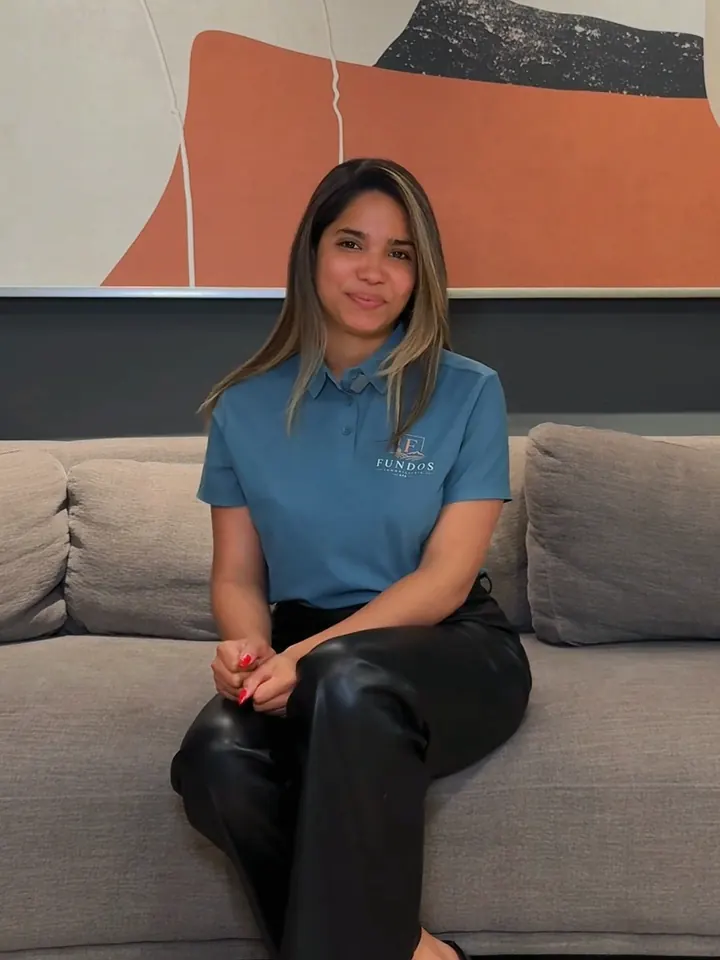
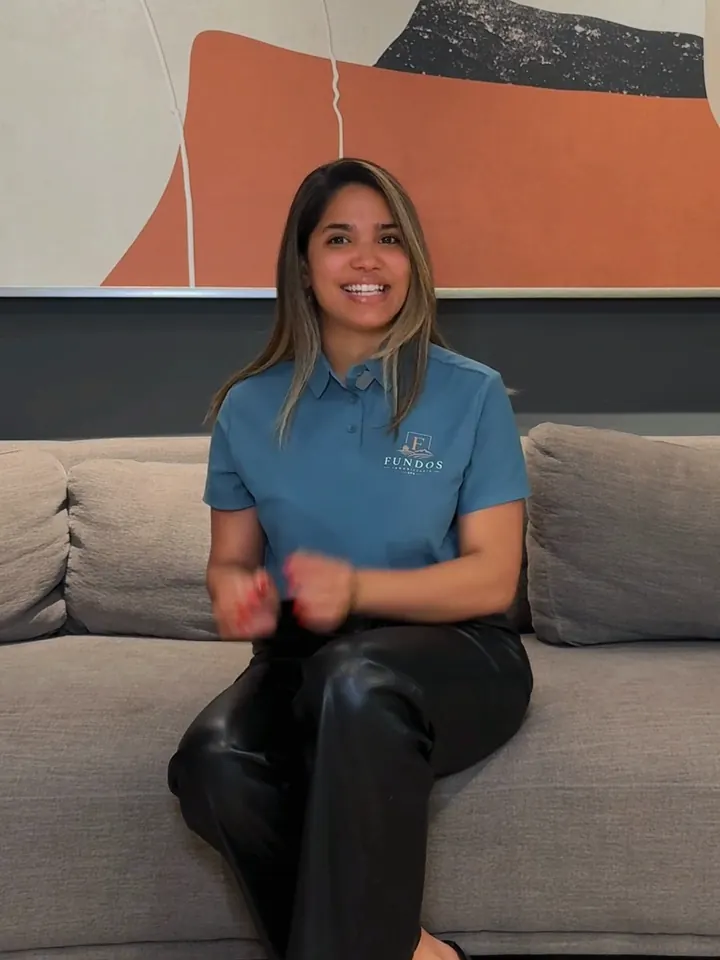
Equipo en galería y mejores portadas de los saludos (#11)
* Temporal: flujo para bajar fotos candidatas de Commons

* Fotos candidatas desde Commons

* Temporal: segunda búsqueda de candidatas para Marchigüe

* Fotos candidatas desde Commons

* Temporal: bajar las fotos elegidas

* Fotos candidatas desde Commons

* Fotos de la zona en las tarjetas de otros proyectos (Malalcahuello y Marchigüe)

Volcán Lonquimay con araucarias (Reserva Malalcahuello, K. Ziarnek, CC BY 4.0)
y viñedos del valle de Colchagua (Viña Montes, T. Wiersma, CC BY 2.0), de
Wikimedia Commons, con lugar y crédito sobre la foto. Se quita el flujo
temporal que las bajó.

Claude-Session: https://claude.ai/code/session_01BUJ9e5WXkqhX7TRnJpZaWq

* Apartado "Conoce cada proyecto" en la pestaña Proyectos

Un apartado por proyecto (Malalcahuello y Marchigüe), más chico que la
pestaña Puerto Varas: foto de portada con crédito, desde/disponibles/
superficie/reserva, características, cercanías con enlace al mapa del
entorno, y Ver lotes / Cotizar / 360° / video. Se arma desde el manifiesto
(foto, caracteristicas), así que un proyecto nuevo solo necesita sus datos;
el selector es una franja deslizable en vez de una pestaña por proyecto.
Enlace directo #proyecto-ID. Reemplaza la antigua ficha en ventana; las
pruebas que la usaban pasan al apartado.

Claude-Session: https://claude.ai/code/session_01BUJ9e5WXkqhX7TRnJpZaWq

* Temporal: bajar páginas de los recorridos 360°

* Archivos de los recorridos

* Temporal: configuración y caras de los recorridos
[…]

diff --git a/styles.css b/styles.css
@@ -1880,20 +1880,6 @@ html:not(.js) .tc-tabs { display: none; }
 .sellers-head .team-faces { margin: 0; font-size: .92rem; }
 .sellers-head .faces-lg img { width: 38px; height: 38px; border-width: 2px; }
 .sellers-head .faces-lg img + img { margin-left: -10px; }
-.sellers-nav { display: none; gap: .5rem; }
-.sellers-arrow[data-sellers-prev] .i { transform: scaleX(-1); }
-
-/* Equipo en carrusel horizontal (una fila, se desliza) */
-.sellers.sellers { display: grid; grid-auto-flow: column; grid-template-columns: none; grid-auto-columns: min(72vw, 260px); gap: .9rem; overflow-x: auto; scroll-snap-type: x mandatory; scroll-padding-inline: 2px; padding: 4px 2px 14px; margin-inline: -2px; scrollbar-width: thin; overscroll-behavior-x: contain; }
-.sellers > li { scroll-snap-align: start; }
-.sellers .member-cta { grid-column: auto; min-width: 0; align-content: end; }
-.sellers .member-cta h4 { font-size: clamp(1.5rem, 2.2vw, 1.9rem); }
-.sellers .member-cta p { font-size: .9rem; }
-@media (min-width: 960px) {
-  .sellers.sellers { grid-auto-columns: calc((100% - 3 * 1.1rem) / 4.4); gap: 1.1rem; }
-  .sellers-nav { display: flex; }
-}
-@media (min-width: 720px) and (max-width: 959px) { .sellers.sellers { grid-auto-columns: calc((100% - 2 * .9rem) / 3.3); } }
 
 /* Proyectos en carrusel en el celular (antes 3 tarjetas apiladas) */
 @media (max-width: 719px) {
@@ -1910,7 +1896,7 @@ html:not(.js) .tc-tabs { display: none; }
 }
 .nav::after { content: ""; position: absolute; left: 0; bottom: 0; height: 2px; width: calc(var(--avance, 0) * 100%); background: var(--gold); opacity: 0; transition: opacity .3s; pointer-events: none; }
 .nav.is-solid::after { opacity: .9; }
-@media (prefers-reduced-motion: reduce) { .sellers.sellers, .projects { scroll-behavior: auto; } }
+@media (prefers-reduced-motion: reduce) { .projects { scroll-behavior: auto; } }
 
 /* Computador: leyenda del plano en una franja baja para que la herramienta completa quepa en la pantalla */
 @media (min-width: 960px) {
@@ -2258,3 +2244,36 @@ html.js[data-vista="compra"] main, html.js[data-vista="equipo"] main { padding-t
 /* Sin desenfoque disponible: el fondo se oscurece algo más para que se lea */
 @supports not ((backdrop-filter: blur(1px)) or (-webkit-backdrop-filter: blur(1px))) { .pv-lead { background: rgba(10, 20, 14, .72); } }
 @media (prefers-reduced-motion: reduce) { .pv-lead { animation: none; } }
+
+/* ---------------- Equipo en galería ----------------
+   Computador: una fila de paneles; el que tiene el cursor (o el foco) se ensancha y muestra su saludo.
+   Celular y tablet: grilla de 2 o 3 columnas. La tarjeta "Conversemos" va en su propia fila. */
+.sellers.sellers { grid-template-columns: repeat(2, minmax(0, 1fr)); gap: .8rem; }
+.sellers > li { min-width: 0; }
+.sellers.sellers .member-cta { grid-column: 1 / -1; }
+.sellers .member-cta h4 { font-size: clamp(1.5rem, 2.2vw, 1.9rem); }
+.sellers .member-cta p { font-size: .9rem; }
+.seller-short { display: none; }
+@media (min-width: 600px) { .sellers.sellers { grid-template-columns: repeat(3, minmax(0, 1fr)); gap: 1rem; } }
+@media (min-width: 960px) {
+  .sellers.sellers { display: flex; flex-wrap: wrap; gap: .7rem; }
+  .sellers > .seller { flex: 1 1 0; height: clamp(420px, 56vh, 540px); transition: flex-grow .65s var(--ease-out); }
+  .sellers > .seller:hover, .sellers > .seller:focus-within { flex-grow: 3.4; }
+  .sellers.sellers .member-cta { flex: 1 1 100%; display: grid; grid-template-columns: auto 1fr auto; align-items: center; gap: .6rem 2rem; min-height: 0; padding: 1.2rem 1.6rem; }
+  .sellers.sellers .member-cta .faces { grid-row: span 2; margin: 0; }
+  .sellers.sellers .member-cta h4 { grid-column: 2; }
+  .sellers.sellers .member-cta p { grid-column: 2; margin: 0; }
+  .sellers.sellers .member-cta .btn { grid-column: 3; grid-row: 1 / span 2; }
+  .seller .seller-card { height: 100%; aspect-ratio: auto; }
+  .seller .seller-card img, .seller .seller-vid { object-position: 50% 22%; }
+  /* Angosto: solo el nombre corto en vertical; ensanchado: la ficha completa */
+  .seller-short { display: block; position: absolute; z-index: 1; left: 50%; bottom: 1.2rem; transform: translateX(-50%) rotate(180deg); writing-mode: vertical-rl; font: 600 1.35rem/1 var(--serif); color: var(--n050); white-space: nowrap; transition: opacity .3s; }
+  .seller-info { opacity: 0; transform: translateY(8px); transition: opacity .35s .1s, transform .45s .1s var(--ease-out); }
+  .seller-badge { width: 32px; height: 32px; padding: 0; justify-content: center; font-size: 0; gap: 0; }
+  .seller-badge .i { width: 13px; height: 13px; }
+  .seller:hover .seller-short, .seller:focus-within .seller-short { opacity: 0; }
+  .seller:hover .seller-info, .seller:focus-within .seller-info { opacity: 1; transform: none; }
+  .seller:hover .seller-badge, .seller:focus-within .seller-badge { width: auto; height: auto; padding: .32rem .7rem; gap: .35rem; font-size: .74rem; }
+  .seller-card:hover img { transform: none; }
+}
+@media (prefers-reduced-motion: reduce) { .sellers > .seller, .seller-info { transition: none; } }

diff --git a/index.html b/index.html
@@ -27,11 +27,11 @@
 <link rel="preload" href="assets/fonts/cormorant-garamond.woff2" as="font" type="font/woff2" crossorigin>
 <link rel="preload" href="assets/fonts/cormorant-garamond-italic.woff2" as="font" type="font/woff2" crossorigin>
 <link rel="preload" href="assets/fonts/mulish.woff2" as="font" type="font/woff2" crossorigin>
-<link rel="stylesheet" href="styles.css?v=20261007b">
-<script defer src="lib/manifest.js?v=20261007b"></script>
-<script defer src="lib/analitica.js?v=20261007b"></script>
-<script defer src="lib/planos.js?v=20261007b"></script>
-<script defer src="main.js?v=20261007b"></script>
+<link rel="stylesheet" href="styles.css?v=20261008a">
+<script defer src="lib/manifest.js?v=20261008a"></script>
+<script defer src="lib/analitica.js?v=20261008a"></script>
+<script defer src="lib/planos.js?v=20261008a"></script>
+<script defer src="main.js?v=20261008a"></script>
 </head>
 <body>
 <a class="skip-link" href="#contenido">Saltar al contenido</a>
@@ -1146,10 +1146,6 @@
           <h3 class="sellers-title">Elige con quién <em>quieres hablar.</em></h3>
         </div>
         <p class="team-faces"><span class="faces faces-lg" aria-hidden="true"><img src="assets/img/cara-1.webp" alt="" width="52" height="52" loading="lazy" decoding="async"><img src="assets/img/cara-8.webp" alt="" width="52" height="52" loading="lazy" decoding="async"><img src="assets/img/cara-3.webp" alt="" width="52" height="52" loading="lazy" decoding="async"><img src="assets/img/cara-4.webp" alt="" width="52" height="52" loading="lazy" decoding="async"><img src="assets/img/cara-5.webp" alt="" width="52" height="52" loading="lazy" decoding="async"><img src="assets/img/cara-6.webp" alt="" width="52" height="52" loading="lazy" decoding="async"><img src="assets/img/cara-7.webp" alt="" width="52" height="52" loading="lazy" decoding="async"></span><span>Te atiende una persona del equipo, <strong>no un bot.</strong></span></p>
-        <div class="sellers-nav" aria-hidden="true">
-          <button class="icon-btn sellers-arrow" type="button" tabindex="-1" data-sellers-prev aria-label="Ver anteriores"><svg class="i"><use href="#i-arrow"/></svg></button>
-          <button class="icon-btn sellers-arrow" type="button" tabindex="-1" data-sellers-next aria-label="Ver siguientes"><svg class="i"><use href="#i-arrow"/></svg></button>
-        </div>
       </div>
       <!-- Una tarjeta por persona: se arman desde lib/manifest.js (equipo) -->
       <ul class="sellers" data-sellers>

diff --git a/main.js b/main.js
@@ -2420,6 +2420,7 @@
       li.innerHTML = '<button type="button" class="seller-card" data-seller="' + i + '" aria-haspopup="dialog">' +
         '<img src="' + esc(g.foto) + '" alt="" width="600" height="750" loading="lazy" decoding="async">' +
         (g.video ? '<span class="seller-badge"><svg class="i" aria-hidden="true"><use href="#i-play"/></svg>Saludo en video</span>' : "") +
+        '<span class="seller-short" aria-hidden="true">' + esc(corto(g)) + '</span>' +
         '<span class="seller-info"><strong>' + esc(titulo(g)) + '</strong>' + (g.nombre ? '<span>' + esc(sub(g)) + '</span>' : "") +
         '<span class="seller-more">Ver ficha' + arrow + '</span></span></button>';
       list.insertBefore(li, cta);
@@ -2476,17 +2477,7 @@
       if (card && g.video) hoverVideo(card, g);
     });
 
-    // El scroll-snap se quedaba "pegado" a la tarjeta final al insertar las demás: volver al inicio
-    list.scrollLeft = 0;
-    requestAnimationFrame(function () { list.scrollLeft = 0; });
 
-    // Flechas del carrusel (computador)
-    $$("[data-sellers-prev], [data-sellers-next]").forEach(function (b) {
-      b.addEventListener("click", function () {
-        var card = $("li", list), step = card ? card.getBoundingClientRect().width + 16 : 260;
-        list.scrollBy({ left: (b.hasAttribute("data-sellers-next") ? 1 : -1) * step * 2, behavior: reduced ? "auto" : "smooth" });
-      });
-    });
 
     var dlg = $("[data-sdialog]");
     if (!dlg || typeof dlg.showModal !== "function") return;

diff --git a/tools/pruebas/pestanas.js b/tools/pruebas/pestanas.js
@@ -39,9 +39,11 @@ const { vista, proyecto, clasica } = require("./_vista");
     await p.screenshot({ path: `ux/tc-${tag}-nos.png` });
     r.nosH = await p.$eval("#nosotros", e => +(e.offsetHeight / innerHeight).toFixed(2));
     if (tag === "d") {
-      const before = await p.$eval("[data-sellers]", e => e.scrollLeft);
-      await p.click("[data-sellers-next]", { force: true }); await p.waitForTimeout(800);
-      r.sellersScroll = [before, await p.$eval("[data-sellers]", e => e.scrollLeft)];
+      // Galería del equipo: el panel con el cursor se ensancha (antes era un carrusel con flechas)
+      const ancho = () => p.$eval('[data-seller="1"]', e => Math.round(e.closest("li").getBoundingClientRect().width));
+      const before = await ancho();
+      await p.hover('[data-seller="1"]'); await p.waitForTimeout(900);
+      r.galeria = [before, await ancho()];
     }
     await vista(p, "proyectos");
     await p.evaluate(() => document.getElementById("proyectos").scrollIntoView());

diff --git a/README.md b/README.md
@@ -20,7 +20,7 @@ Sitio estático (HTML, CSS y JavaScript, sin build ni dependencias). Funciona ab
 | **Plano interactivo de lotes** ★ | La función estrella. Planos nítidos con bordes compartidos, números siempre legibles y zoom real (botones, pellizco, arrastre, doble clic y Ctrl + rueda). Chips de precio que resaltan su categoría, filtros por estado y precio, vista de lista ordenable, favoritos que se envían por WhatsApp y enlace directo a un lote (`#lote-malalcahuello-12`). En el celular el detalle abre como hoja inferior sin tapar el lote. "Reservar este lote" precarga el formulario; en un lote vendido se ofrecen los disponibles más cercanos. |
 | **Videos (listo para usar)** | Soporte para video de portada en el hero y visor de video por proyecto (YouTube, Vimeo o archivo propio). No se muestra nada hasta cargar un video en `lib/manifest.js`. |
 | **Todo sobre tu compra** (pestañas) | Una sola sección con cuatro pestañas y su barra fija arriba: **Cómo comprar** en 6 pasos (el embudo de Fundos 360°: reserva → validación → gastos → escritura → inscripción en el CBR), **Simulador** (contado o financiamiento, reparto visual y envío por WhatsApp), **Preguntas** frecuentes y **Mi compra** (portal del comprador con avance, documentos e hitos). Los enlaces `#como-comprar`, `#simulador`, `#preguntas` y `#portal` abren su pestaña. Sin JavaScript se ven las cuatro seguidas. |
-| **Quiénes somos y equipo** | Texto y valores del sitio actual en versión corta junto a la foto grupal, y el equipo en carrusel con **una tarjeta por persona** (flechas en computador, deslizar en celular): cada una abre su ficha (ventana) con foto grande, qué hace por ti, WhatsApp y "Agendar visita", y flechas o caras para pasar a la siguiente. La ficha que tiene video muestra su saludo con sonido. Enlace directo a cada ficha: `#equipo-3`. Las caras del equipo acompañan también la agenda de visita, la ayuda del plano y la vista previa de "Mi compra". |
+| **Quiénes somos y equipo** | Texto y valores del sitio actual en versión corta junto a la foto grupal, y el equipo en galería con **una tarjeta por persona** (en computador, paneles que se ensanchan y reproducen el saludo en video al pasar el cursor; en celular, grilla): cada una abre su ficha (ventana) con foto grande, qué hace por ti, WhatsApp y "Agendar visita", y flechas o caras para pasar a la siguiente. La ficha que tiene video muestra su saludo con sonido. Enlace directo a cada ficha: `#equipo-3`. Las caras del equipo acompañan también la agenda de visita, la ayuda del plano y la vista previa de "Mi compra". |
 | **Agenda tu visita** | Formulario validado que abre WhatsApp con el mensaje listo: nombre, proyecto, fecha y horario. Desde "Reservar este lote" llega con la reserva a la vista ("Reserva: lote 18 de Malalcahuello") y el mensaje pide reservar ese lote. |
 
 Página corta para no cansar con el scroll: unas 10 pantallas en computador y 14 en celular (antes 14,6 y 23,3). En celular los proyectos también van en carrusel, y arriba se indica la sección en que estás con una barra de avance.

diff --git a/CLAUDE.md b/CLAUDE.md
@@ -183,7 +183,11 @@ Mínimo antes de publicar: `interacciones.js`, `plano.js`, `qa.js`, `anchos.js` 
   es un cuadro del mismo video (`assets/img/equipo-ID.webp`, cabeza y hombros) y `video.tarjeta` es el saludo con ese
   mismo recorte: al pasar el cursor (computador) la foto se vuelve video con sonido; si el navegador aún no deja sonar,
   parte en silencio con "Haz clic para verlo con sonido" y el clic abre la ficha con el saludo completo. Quienes no
-  tienen video quedan como estaban. **Marjorie Castellón salió del equipo** (pedido del cliente). Elvys aún sin
+  tienen video quedan como estaban. Portada de cada saludo: un cuadro con sonrisa, ojos abiertos y de frente
+  (Elvys 9,5 s, Jeanette 1,5 s, Mari 4,5 s, Stefy 8,5 s del original; originales en el historial: `0475102`, `2eafd5d`,
+  `d0152bd`, `679a800`). El equipo es una **galería** (el cliente no quería deslizar): en computador una fila de paneles
+  que se ensancha con el cursor (nombre corto en vertical cuando está angosto) y "Conversemos" en una franja abajo;
+  en celular y tablet, grilla de 2 o 3 columnas. **Marjorie Castellón salió del equipo** (pedido del cliente). Elvys aún sin
   apellido ni presentación escrita. Material nuevo: el cliente lo sube a `subidas/` en la rama de trabajo (los
   originales no van a `main`; se convierten con ffmpeg a MP4 + WebM con `loudnorm`).
   No suponer género ni cargos: hoy todos dicen "Equipo comercial" hasta tener los cargos reales.
@@ -204,5 +208,5 @@ Mínimo antes de publicar: `interacciones.js`, `plano.js`, `qa.js`, `anchos.js` 
   atractivo del inicio; el resto (proyectos, compra, equipo) va en otras pestañas.
 - Página corta por secciones (el cliente sintió que tanto scroll cansa): Cómo comprar, Simulador, Preguntas y Mi compra
   van como pestañas en `#tu-compra` (`initCompra`; los enlaces a esos `#id` abren su pestaña); Nosotros compacto con
-  valores cortos y el equipo en carrusel; proyectos en carrusel en celular; indicador de sección (`[data-nav-where]`)
+  valores cortos y el equipo en galería (antes carrusel); proyectos en carrusel en celular; indicador de sección (`[data-nav-where]`)
   y barra de avance (`--avance` en `.nav`). Medir el largo con `tools/pruebas/largo.js` si se agregan secciones.
